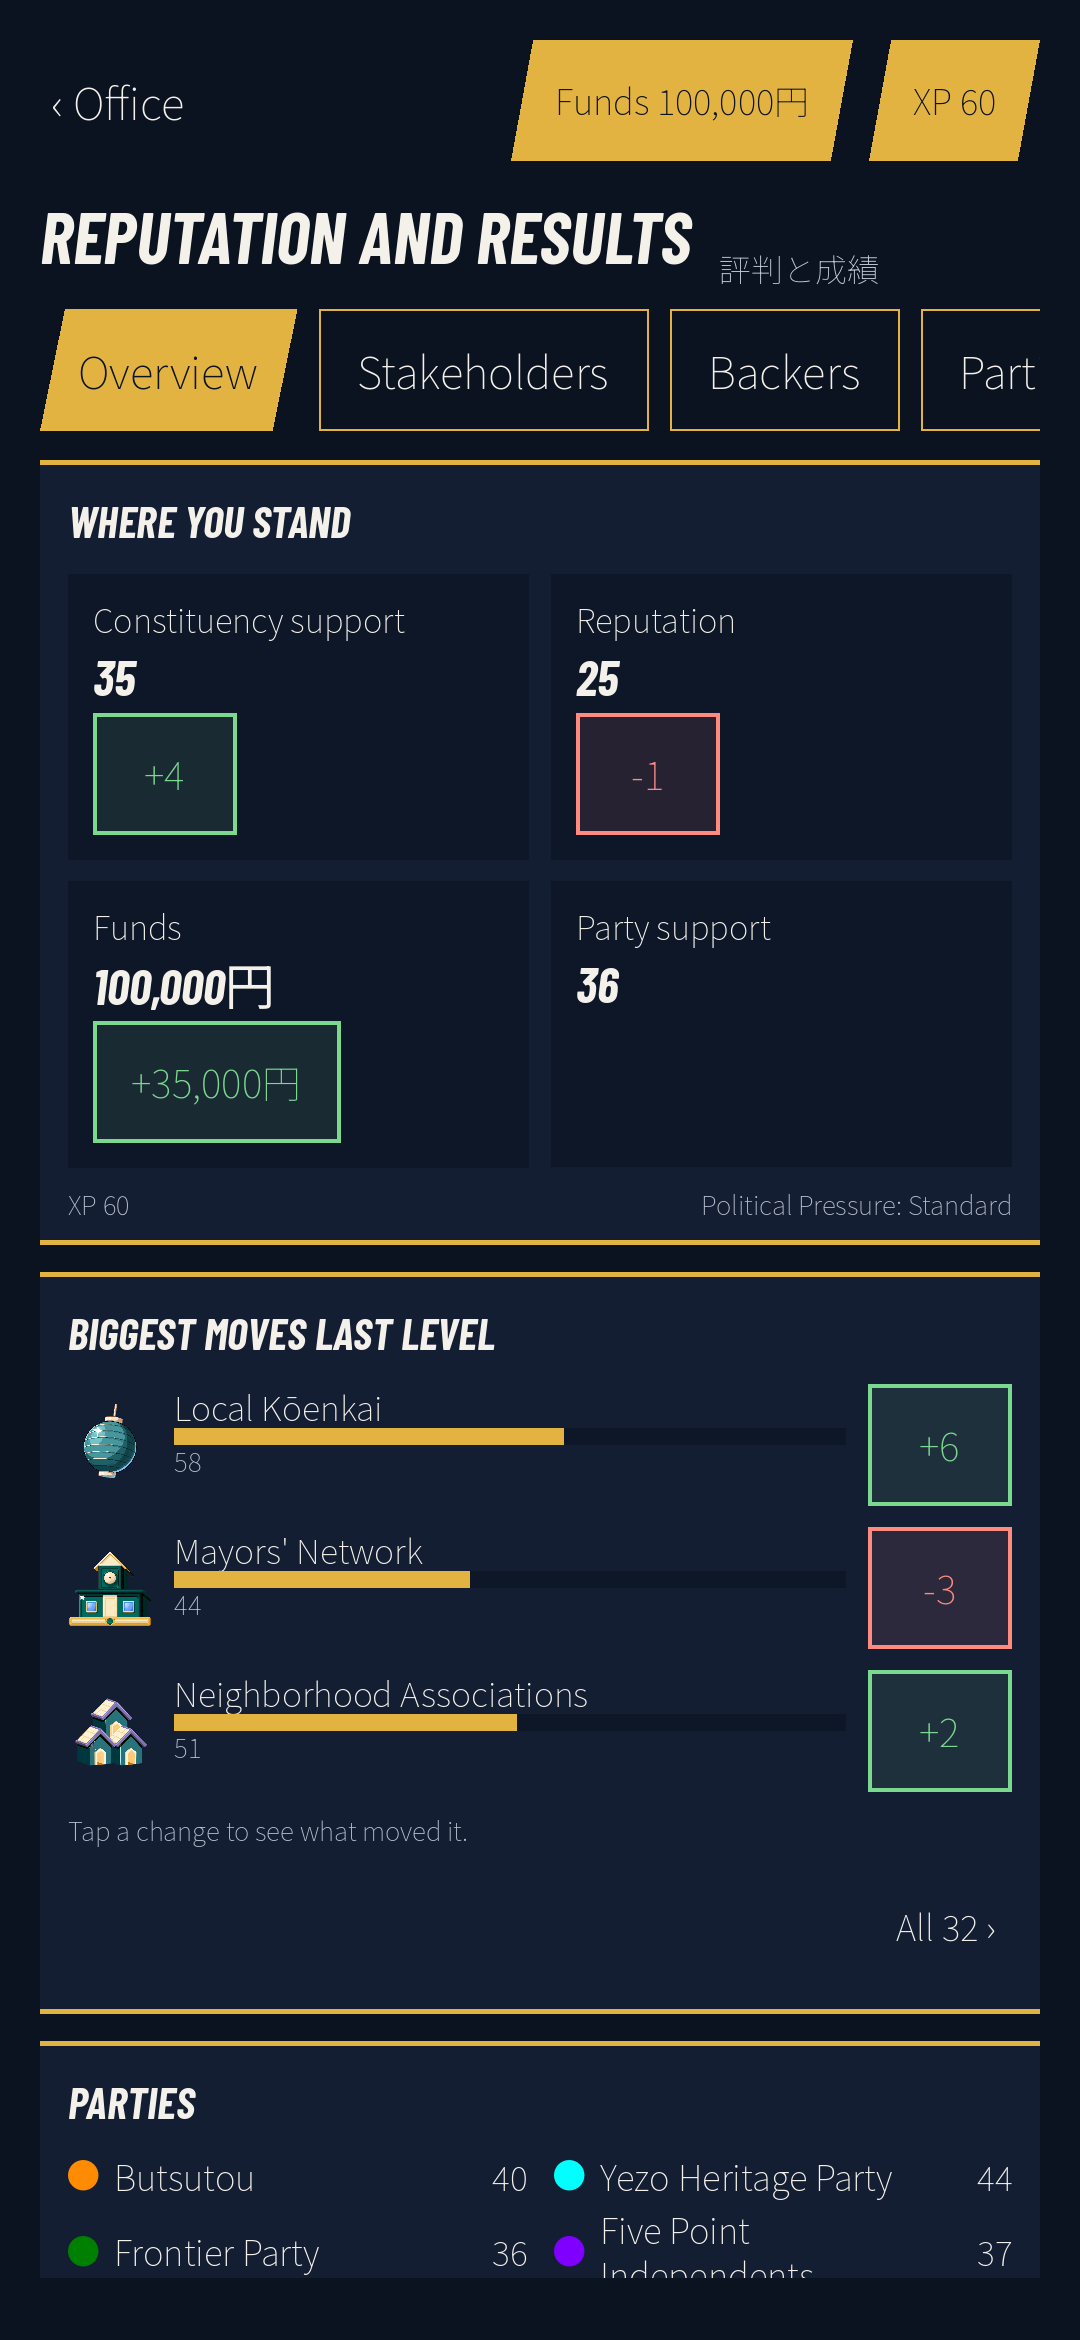
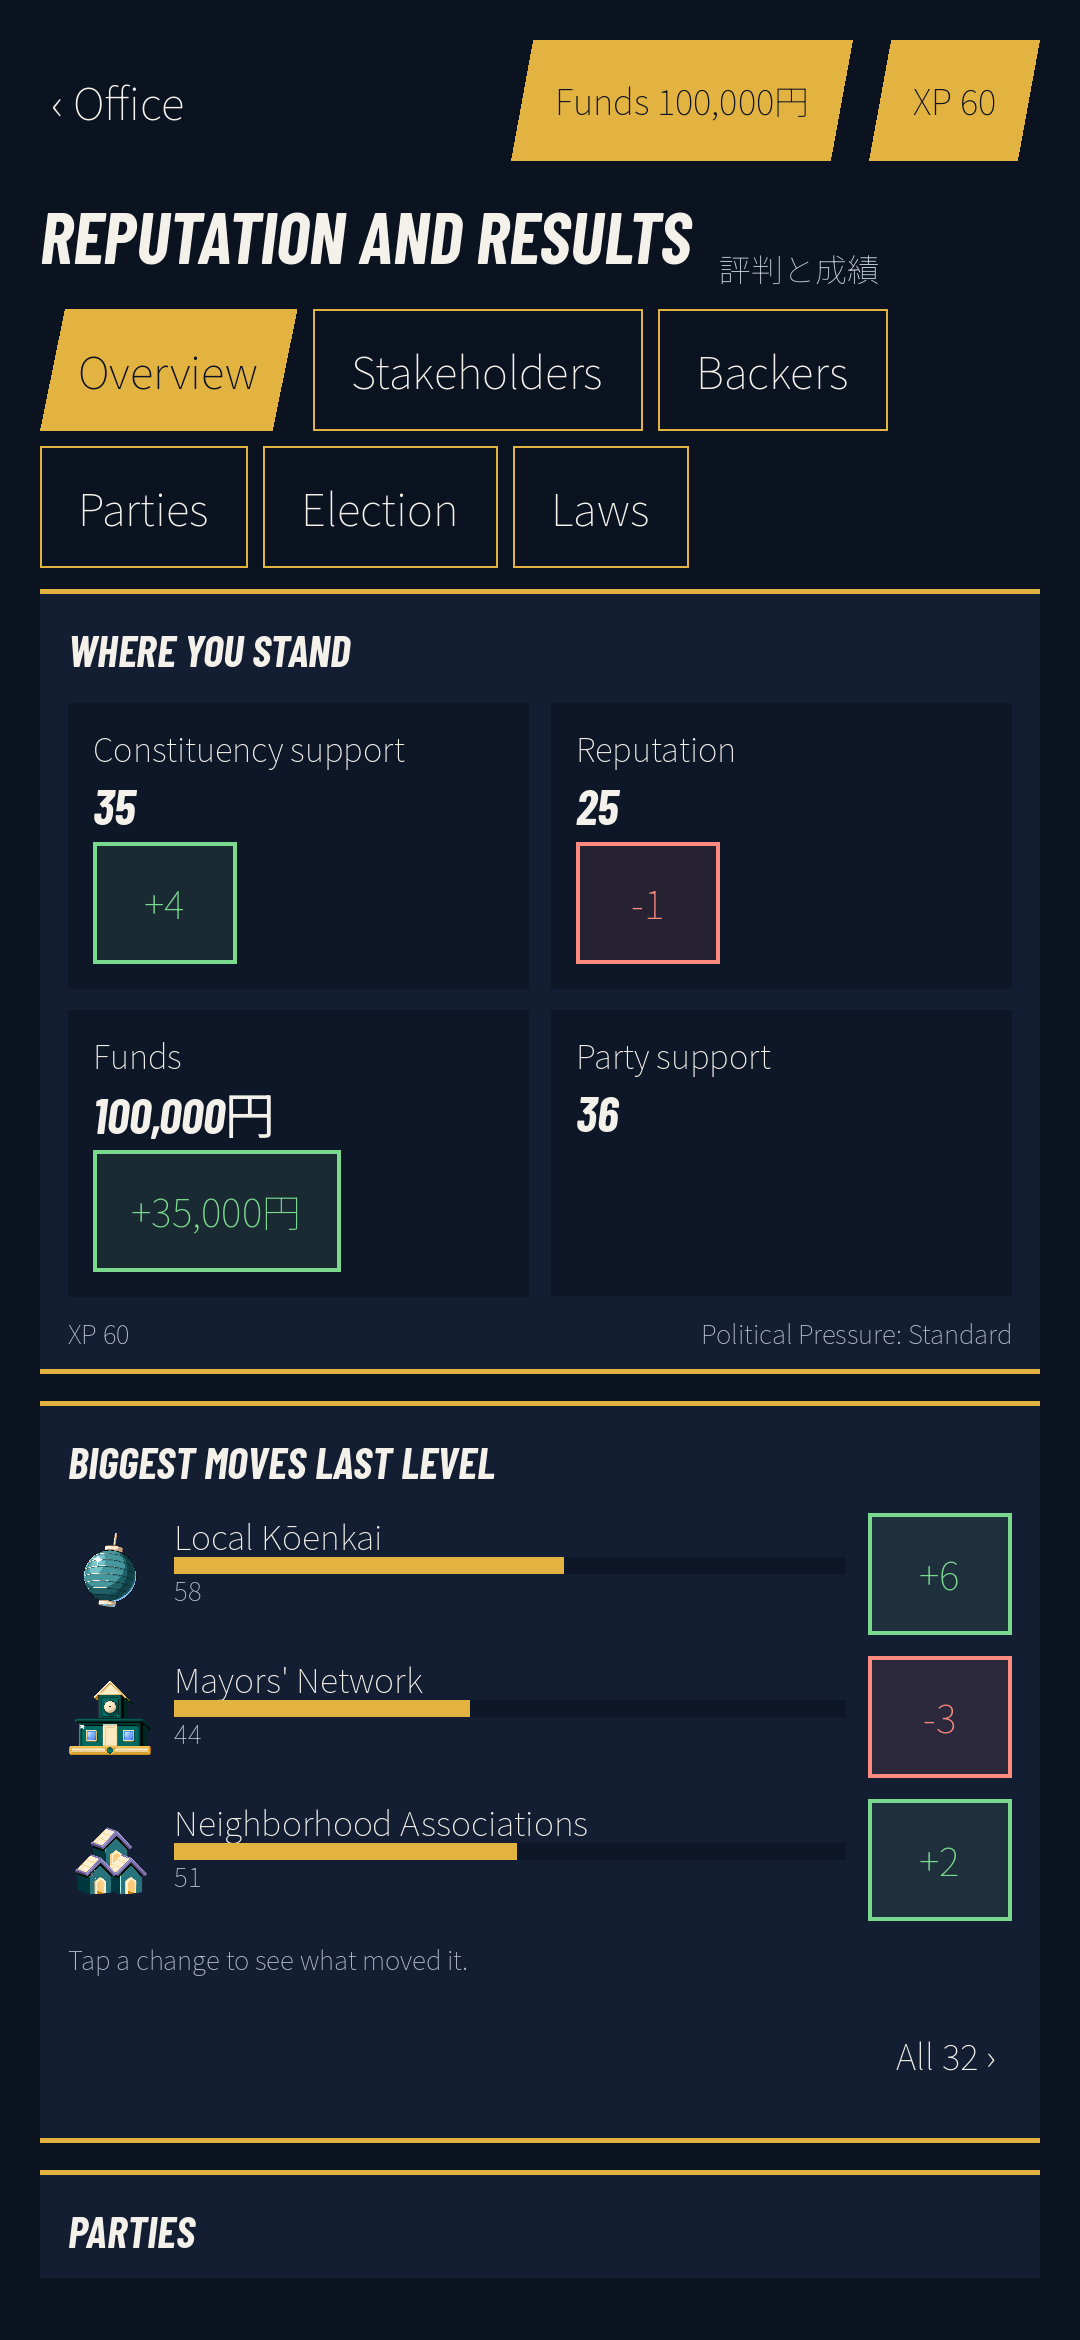
P13: the frame's tabs wrap instead of scrolling sideways
The first full check of the Reputation screen failed the text sweep, which
forbids any text off the edge of the screen, even inside a scroll box: the last
tabs sat past the right edge. The tabs now wrap onto a second line, so every
tab is always visible, at every text size. The menu click test and the review
pictures follow.

Claude-Session: https://claude.ai/code/session_01DfMHadVfwygTZwuHN479yC

diff --git a/design/review/p13_office_screens_2026-11-20/REPORT.md b/design/review/p13_office_screens_2026-11-20/REPORT.md
@@ -77,7 +77,7 @@ The screenshots use demo numbers (three organizations moved, one law passed) so 
 | The factors pop-up is the old plain panel, not drawn on the frame | The spec asks for icon, name, standing line and rows; it gets the standing line and the same rows as before. A framed pop-up comes with the P14 pop-up card, which every pop-up shares. |
 | Your Record is gone as a page | Its sections moved: the four numbers, Political Pressure line and Levels cleared (with clears per tier) are on the Overview; Legislative Work and the bills your influence flipped are on the Laws tab. Nothing was dropped. |
 | The party list on the Overview shows each party's opinion score as a number beside a colour swatch | As the mockup does; the Parties tab keeps today's full cards (score, band, breakdown and the allies button). |
-| Tabs scroll sideways (the last two are off the edge at first), with no scrollbar | As the spec says; the cut-off tab shows there is more. |
+| The tabs wrap onto a second line instead of scrolling sideways | The spec says the row scrolls sideways, but the project's text sweep forbids any text off the screen edge, even inside a scroll box, and six tabs plus Large text do not fit one line. Wrapping also shows every tab at once. |
 | The Resign button keeps its crimson fill and black text | It is the existing button (`ResignScreen.button`); I did not restyle it. Black on that crimson reads at about 3.6:1, below the 4.5:1 target, so you may want it changed. |
 | Backers and Parties keep today's buttons (Take their backing, See allies and rivals) inside cards | Presentation of those rows was not part of the spec beyond the frame; they are the old rows in cards. |
 
